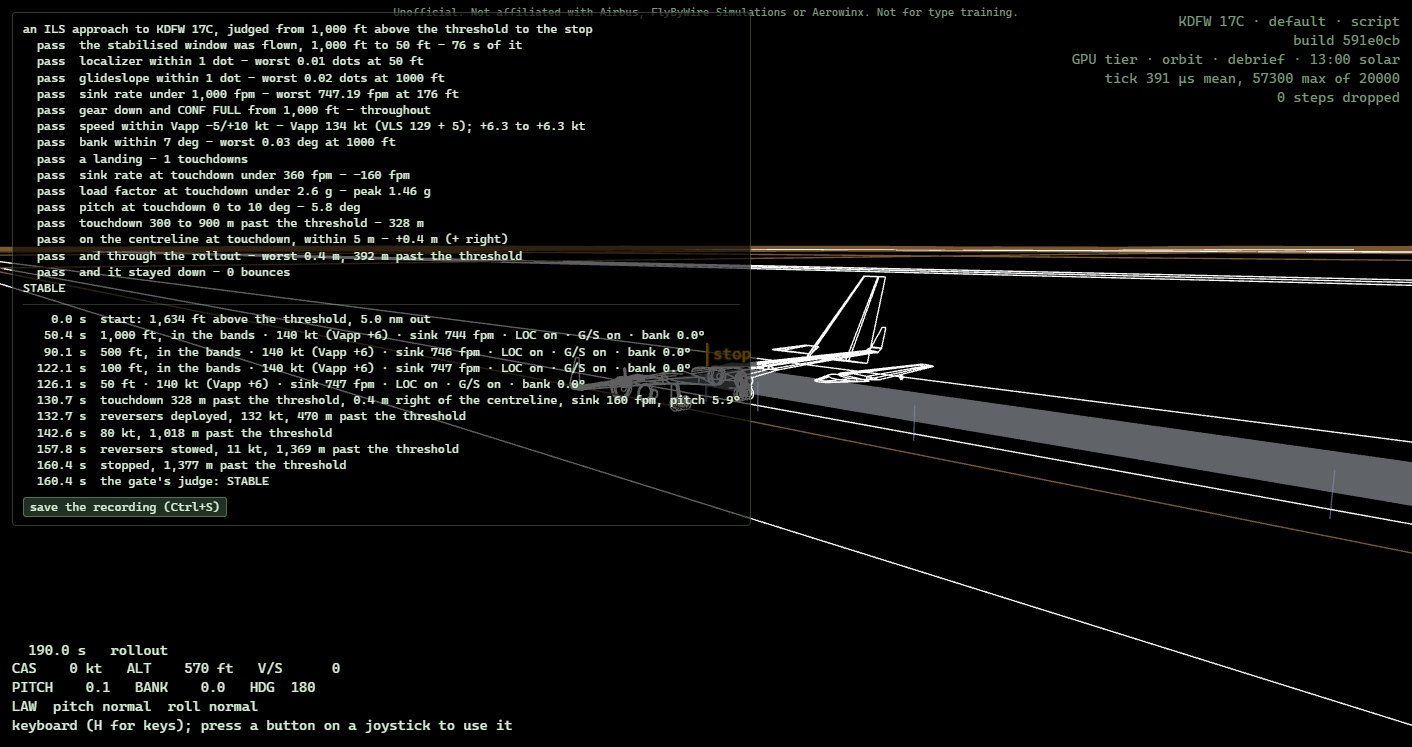
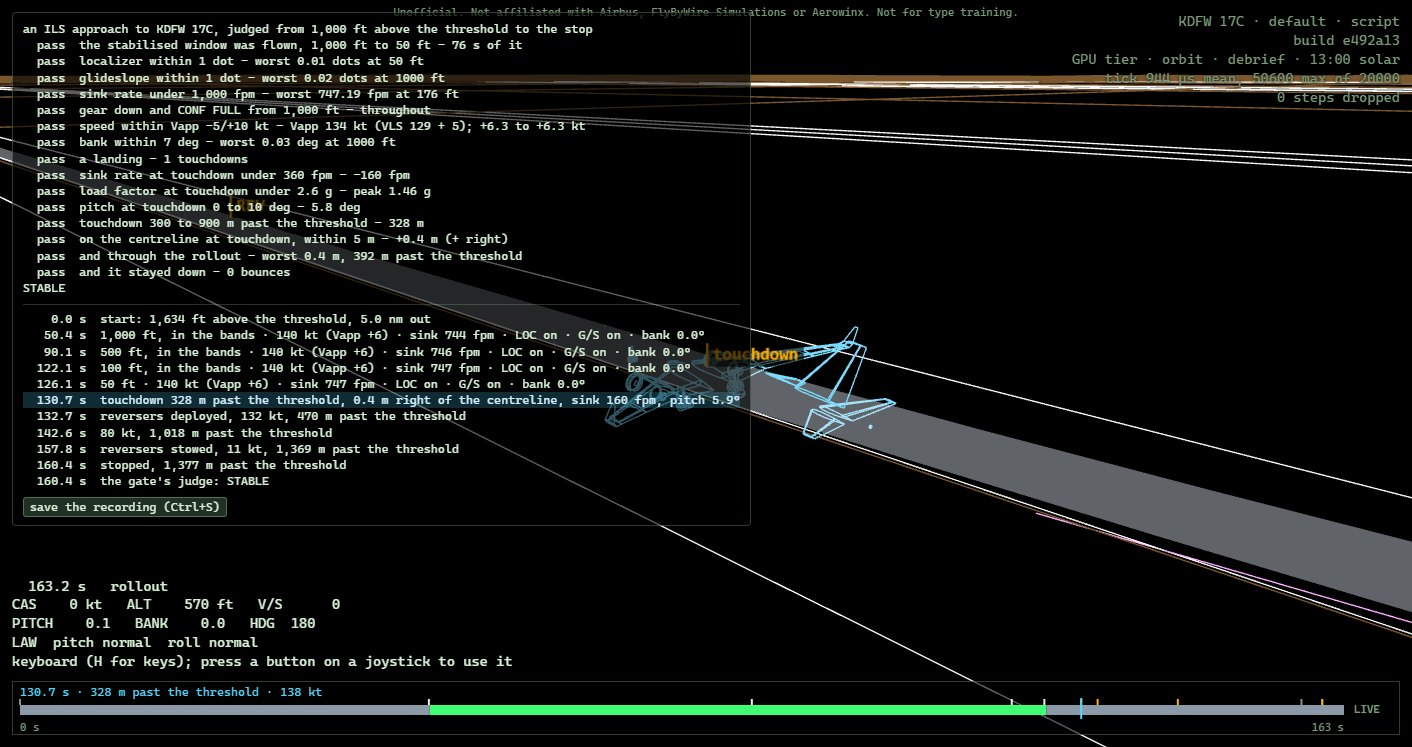
docs: the guide's debrief picture shows the timeline, its playhead at the touchdown
docs/guide/debrief.jpg taken again from a build of e492a13 (the core built in WSL with flight/ clean, named by SOURCE-COMMIT as the source archive names it; the status line reads build e492a13), by tools/drive.mjs: the scripted crew from 5 nm to the stop in the debrief, the playhead sought to the touchdown (130.7 s, 328 m past the threshold, 138 kt), the orbit camera behind and above; headless Chrome, 1412x747 as the other pictures, 0 steps dropped, 180 KB. Its caption says what it shows. Guide and release tests pass (21).

diff --git a/docs/pilots-guide.md b/docs/pilots-guide.md
@@ -206,8 +206,8 @@ sink, the beams and the bank. **,** and **.** step a second (with Shift, ten), *
 flight's own pace, and clicking a moment in the panel, the touchdown say, takes you there. **LIVE**, at
 the bar's right end, follows the flight again.
 
-![The debrief (K) after the stop: the aircraft's outline at the end of its rollout, the path behind
-it, the moments tagged.](guide/debrief.jpg)
+![The debrief (K) after the stop, its playhead held at the touchdown: the aircraft in cyan where it
+touched down, the moment lit in the panel, and the timeline along the foot.](guide/debrief.jpg)
 
 # Saving a flight, and handing it in
 
